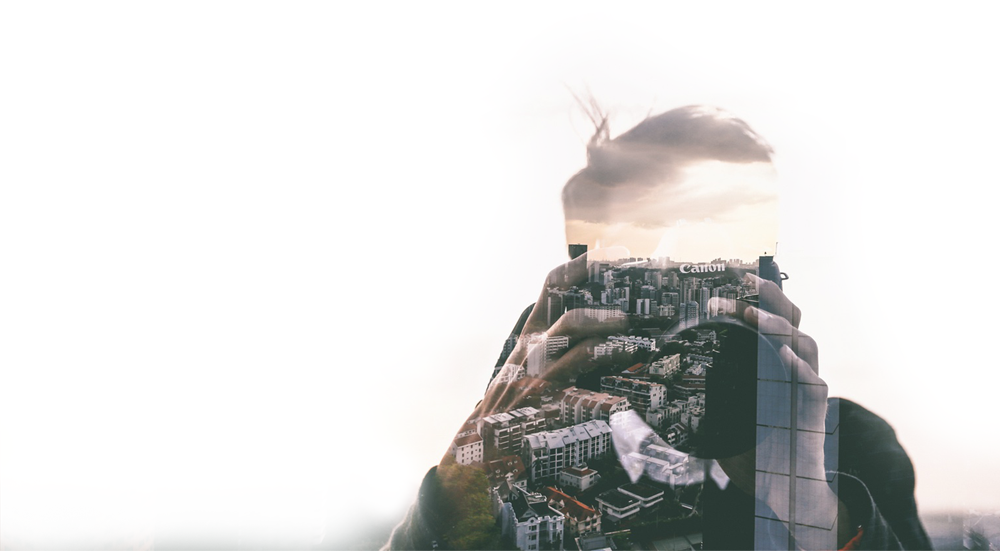
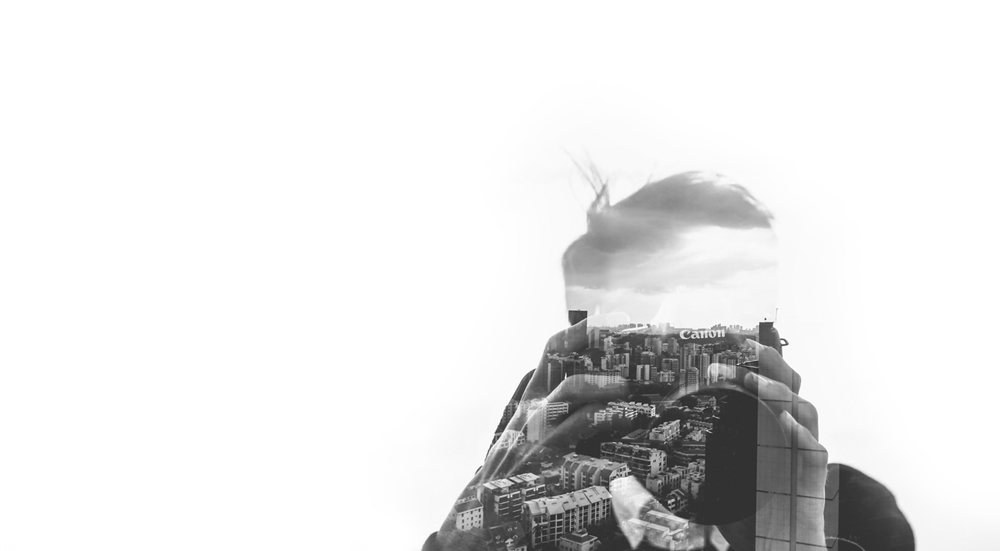
add images b&w

Changed region(s): [[0.093, 0.1851, 1.0, 1.0], [0.0, 0.9873, 0.031, 1.0]]

diff --git a/index.html b/index.html
@@ -73,7 +73,7 @@
           <ol class="carousel-indicators"></ol>
           <div role="listbox" class="carousel-inner">
             <div class="item active"><img src="assets/images/photo-girl-camera.jpg" alt="Picture of Photographer"></div>
-            <div class="item"><img src="assets/images/photo-girl-camera-2.jpg" alt="Picture of Photographer"></div>
+            <div class="item"><img src="assets/images/photo-man-camera.jpg" alt="Picture of Photographer"></div>
           </div><a href="#large-slideshow" role="button" data-slide="prev" class="left carousel-control"></a><a href="#large-slideshow" role="button" data-slide="next" class="right carousel-control"></a>
         </div>
       </section>
